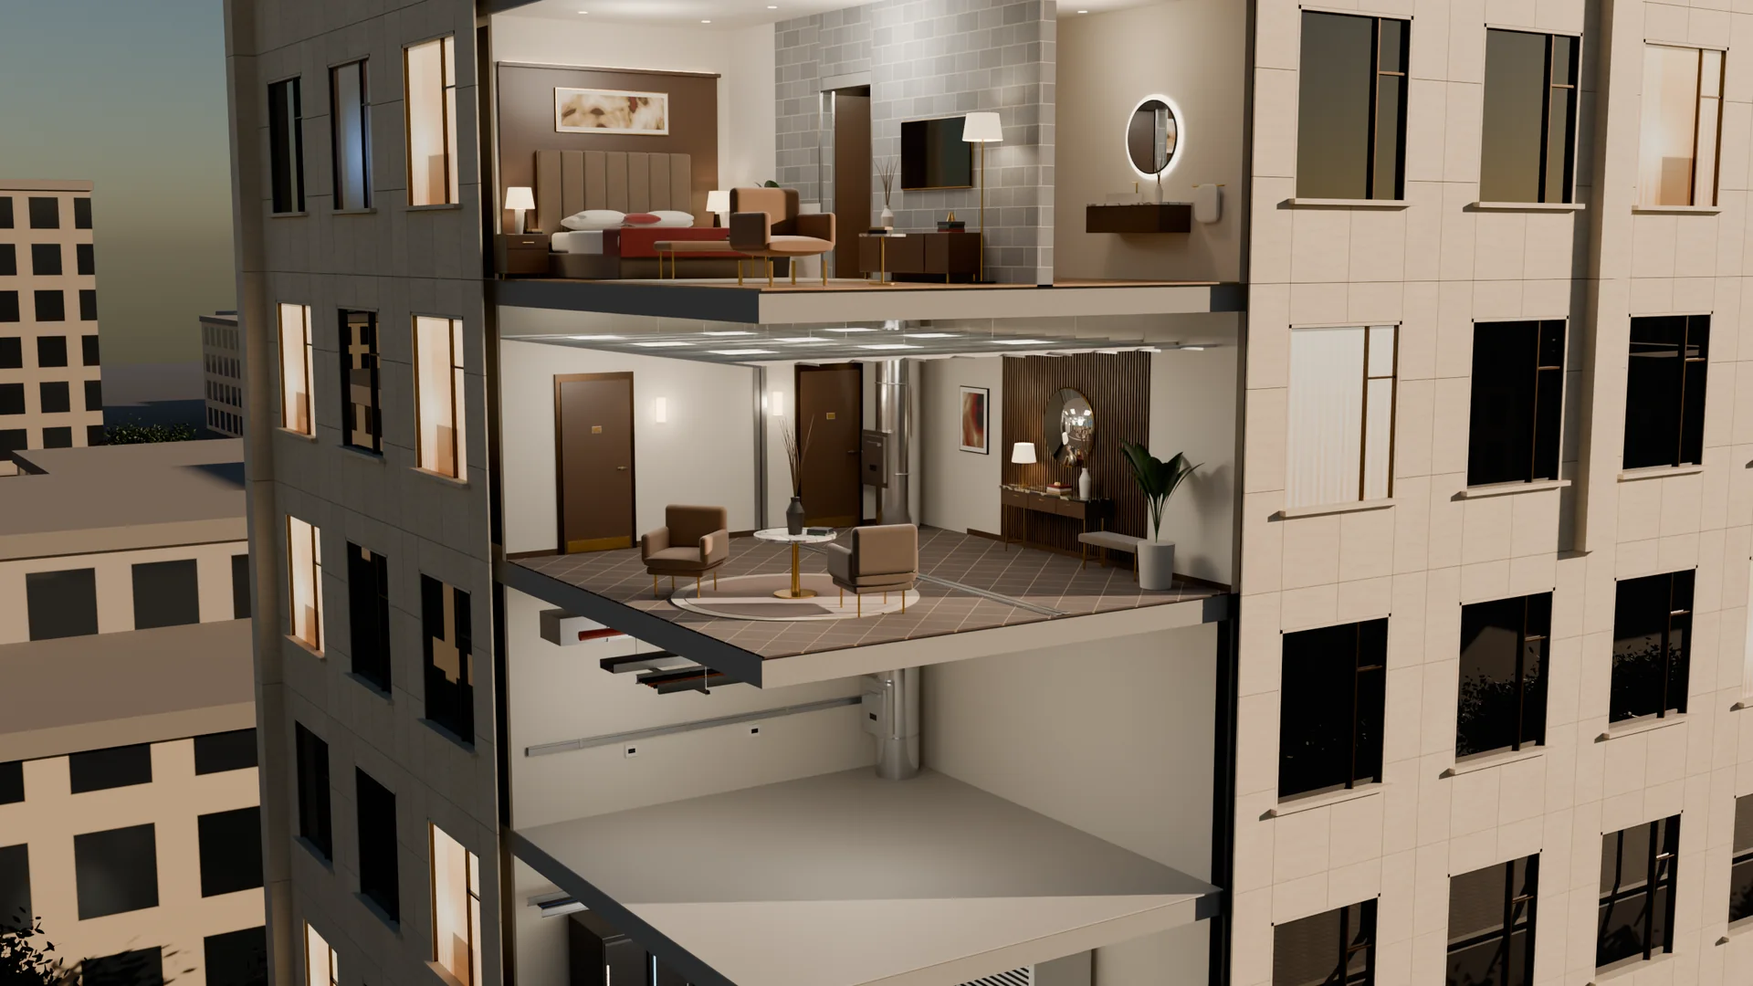
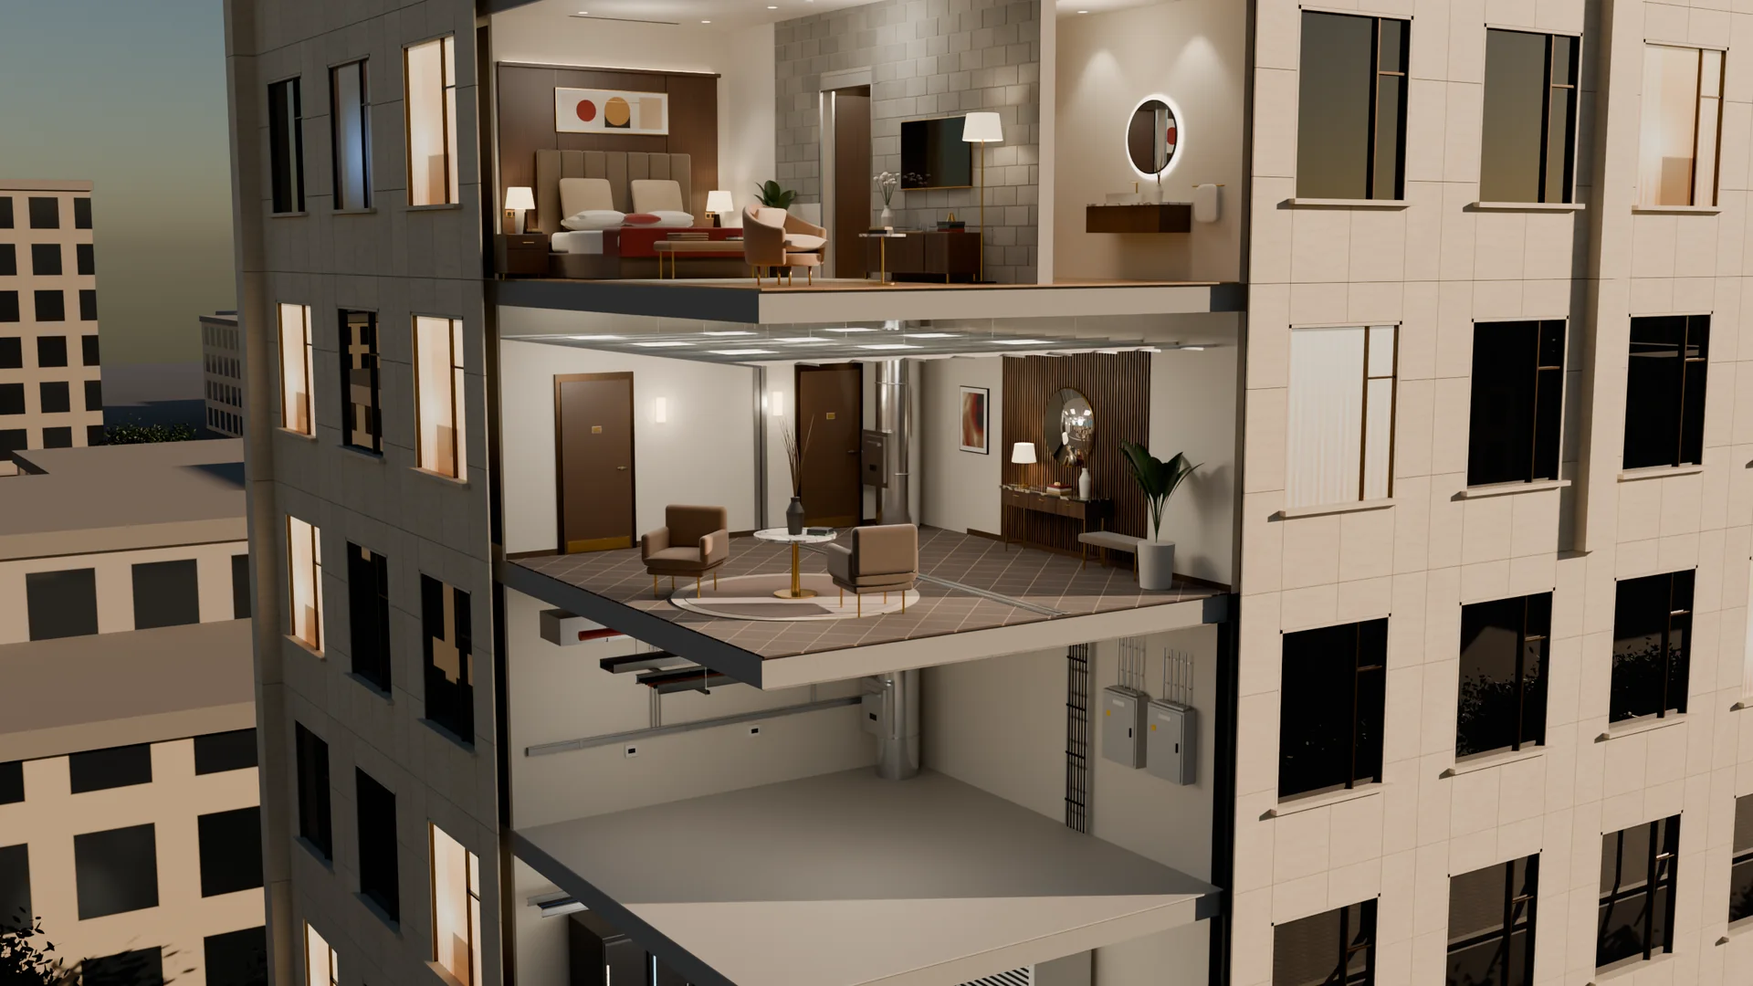
Hero: hotel, corridor and chute chapters re-rendered so the room and services floors match the realism pass
Claude-Session: https://claude.ai/code/session_017Zrk1783M4wwwCaEktgcez

Changed region(s): [[0.2812, 0.5806, 0.6875, 0.9167], [0.25, 0.0, 0.7188, 0.3056], [0.5312, 0.7333, 0.5625, 0.7639]]

diff --git a/assets/kv/herophoto.js b/assets/kv/herophoto.js
@@ -1,1 +1,1 @@
-const N=[{name:"The hotel",ox:.62,hi:1,v:"f3f6e5",tags:[]},{name:"Fa\xE7ade fixation",ox:.5,hi:1,v:"7e573c",tags:[{text:"Natural stone panels",num:null,href:"product/mechanical-cladding-fixation.html",x:.4354,y:-.1514},{text:"Stainless Z-brackets",num:null,href:"s/z-brackets.html",x:.586,y:.3359},{text:"Solid backing wall",num:null,href:"product/mechanical-cladding-fixation.html",x:.6528,y:.5268},{text:"Ventilated cavity",num:null,href:"product/mechanical-cladding-fixation.html",x:.2743,y:1.2563}]},{name:"The Z-bracket kit",ox:.5,hi:1,v:"de075c",tags:[{text:"Z-bracket",num:"1",href:"s/z-brackets.html",x:.4745,y:.6075},{text:"Through anchor",num:"2",href:"s/anchors.html",x:.4345,y:.4955},{text:"Serrated washer",num:"3",href:"s/z-brackets.html",x:.4428,y:.4612},{text:"Hex nuts",num:"4",href:"s/z-brackets.html",x:.4565,y:.6615},{text:"Flat head bolt",num:"5",href:"s/z-brackets.html",x:.4706,y:.6889},{text:"Pin with ring",num:"6",href:"s/z-brackets.html",x:.4888,y:.6482}]},{name:"Cable management",ox:.5,hi:1,v:"f88b6a",tags:[{text:"Perforated cable tray",num:null,href:"product/cable-trays.html",x:.34,y:.2554},{text:"Cable ladder",num:null,href:"product/cable-ladders.html",x:.7321,y:.5475},{text:"Strut channel trapeze",num:null,href:"product/c-channel-strut.html",x:.6573,y:.4215},{text:"Threaded rod & nuts",num:null,href:"s/threaded-accessories.html",x:.7319,y:.4777},{text:"Pipe clamps",num:null,href:"product/pipe-clamps.html",x:.3827,y:.4447},{text:"Cable trunking",num:null,href:"product/cable-trunkings.html",x:-.0406,y:.9286}]},{name:"Raised access floor",ox:.5,hi:1,v:"6b1dca",tags:[{text:"Porcelain slabs 600 \xD7 600",num:null,href:"product/raised-access-flooring.html",x:.6838,y:.4969},{text:"Adjustable pedestals",num:null,href:"s/indoor-access-floor.html",x:.6216,y:.6939},{text:"Self-levelling head",num:null,href:"s/indoor-access-floor.html",x:.8497,y:.5621}]},{name:"Ceilings & movement joints",ox:.5,hi:1,v:"8b99e5",tags:[{text:"Metal ceiling grid",num:null,href:"product/metal-ceiling-grid.html",x:.4944,y:.3199},{text:"Floor expansion joint",num:null,href:"s/floor-joints.html",x:.6808,y:.8966},{text:"Wall joint cover",num:null,href:"s/wall-ceiling-joints.html",x:.398,y:.5393}]},{name:"Blockwork & lintels",ox:.5,hi:1,v:"35f995",tags:[{text:"Blockwork partition",num:null,href:"s/block-accessories.html",x:.4462,y:.3793},{text:"Steel lintel",num:null,href:"s/steel-lintels.html",x:.5078,y:.316},{text:"Angle beads",num:null,href:"s/plaster-beads.html",x:.5452,y:.5425}]},{name:"Garbage & linen chute",ox:.5,hi:1,v:"ae6072",tags:[{text:"Chute through every floor",num:null,href:"product/garbage-linen-chutes.html",x:.5051,y:.1311},{text:"Intake doors",num:null,href:"s/chute-components.html",x:.5025,y:.4667},{text:"Chute sections",num:null,href:"s/chute-components.html",x:.5037,y:.6748}]},{name:"The roof",ox:.5,hi:1,v:"f9c590",tags:[{text:"Porcelain terrace",num:null,href:"s/outdoor-pedestals.html",x:.2902,y:.7295},{text:"Terrace on adjustable pedestals",num:null,href:"s/outdoor-pedestals.html",x:.4508,y:.6766},{text:"FRP grating walkway",num:null,href:"s/frp-grating-handrail.html",x:.6566,y:.5929},{text:"FRP handrail",num:null,href:"s/frp-grating-handrail.html",x:.788,y:.3357},{text:"Cable ladder on strut stands",num:null,href:"product/cable-ladders.html",x:.7073,y:.3621}]}],Tt=[{o:[1.7,.65,.58],i:[1.22,.1,0]},{o:[1.6,.48,.59],i:[1.2,0,.25]},{o:[1.28,.5,.5],i:[1.4,.69,.98]},{o:[1.3,.4,1],i:[1.3,.45,0]},{o:[1.3,.4,0],i:[1.3,.6,1]},{o:[1.3,.5,0],i:[1.3,.5,1]},{o:[1.18,.5,.5],i:[1.35,.46,.07]},{o:[1.5,.19,.82],i:[1.25,.45,1]}],k="img/hotel/",I=620,i=document.querySelector(".hero"),dt=i&&i.querySelector(".hero-media");i&&dt&&Lt();function Lt(){const z=matchMedia("(prefers-reduced-motion: reduce)").matches,w=matchMedia("(min-width: 900px)"),p=N.length;let h=null;z||(h=document.createElement("div"),h.className="kv3d-pin kv3d-pin-long",i.parentNode.insertBefore(h,i),h.appendChild(i));const j=()=>!!h&&w.matches,M=document.createElement("div");M.className="kvh-stack",dt.appendChild(M);const f=N.map((t,n)=>{let e;const a=n===0?"":"?v="+t.v,s=k+"c"+n+"-1280.webp"+a+" 1280w, "+k+"c"+n+"-1920.webp"+a+" 1920w"+(t.hi?", "+k+"c"+n+"-2560.webp"+a+" 2560w":"");return n===0?(e=document.createElement("picture"),e.innerHTML='<source media="(max-width: 899px)" srcset="'+k+"c0p-800.webp 800w, "+k+'c0p-1080.webp 1080w" sizes="100vw"><img src="'+k+"c0-1920.webp"+a+'" srcset="'+s+'" sizes="100vw" alt="" fetchpriority="high" decoding="async">'):(e=document.createElement("img"),e.alt="",e.decoding="async",e.dataset.srcset=s),e.className="kvh-img"+(n===0?" on":""),e.style.setProperty("--ox",t.ox*100+"%"),M.appendChild(e),e}),q=t=>f[t].tagName==="PICTURE"?f[t].querySelector("img"):f[t],ht=t=>{const n=q(t);return n.complete&&n.naturalWidth>0},y=t=>{const n=f[t];n&&n.dataset.srcset&&(n.sizes="100vw",n.srcset=n.dataset.srcset,delete n.dataset.srcset)},mt=(t,n,e)=>{if(y(t),ht(t))return n();const a=q(t);let s=!1;const r=()=>{s||(s=!0,n())};a.addEventListener("load",r,{once:!0}),a.addEventListener("error",r,{once:!0}),e&&setTimeout(r,e)},b=document.createElement("div");b.className="kv3d-labels",b.setAttribute("aria-hidden","true"),i.appendChild(b);const ut=(t,n)=>{const e=document.createElement("div");e.className="kv3d-tag",e.style.setProperty("--d",n*70+"ms");const a=document.createElement("span");a.className="kv3d-dot";const s=document.createElement("span");s.className="kv3d-line";const r=document.createElement(t.href?"a":"span");if(r.className="kv3d-chip",t.href&&(r.href=t.href,r.tabIndex=-1,r.style.textDecoration="none",r.style.pointerEvents="none"),t.num){const m=document.createElement("b");m.textContent=t.num,r.appendChild(m)}const x=document.createElement("span");return x.textContent=t.text,r.appendChild(x),e.append(s,a,r),b.appendChild(e),{el:e,line:s,chip:r,on:!1,href:!!t.href,x:t.x,y:t.y}},ft=N.map(t=>t.tags.map(ut)),H=document.createElement("div");H.className="kv3d-steps kv3d-steps-many";const xt=N.map((t,n)=>{const e=document.createElement("button");e.type="button",e.className="kv3d-step";const a=document.createElement("b");a.textContent=String(n+1).padStart(2,"0");const s=document.createElement("span");return s.textContent=t.name,e.append(a,s),e.setAttribute("aria-label",t.name),e.addEventListener("click",()=>{j()&&(y(n),scrollTo({top:pt(n),behavior:"smooth"}))}),H.appendChild(e),e});i.appendChild(H);const C=document.createElement("div");C.className="kv3d-hint",C.textContent="Scroll to tour the hotel",i.appendChild(C);const V=()=>Math.max(1,h.offsetHeight-i.offsetHeight),pt=t=>h.getBoundingClientRect().top+scrollY-62+V()*(t/(p-1));let F=1,R=1;const Y=1920,Z=1080,yt=(t,n,e)=>{const a=Math.max(F/Y,R/Z),s=Y*a,r=Z*a;return[(F-s)*t.ox+n*s,(R-r)*.5+e*r]};function W(){const t=i.getBoundingClientRect();F=Math.max(1,t.width),R=Math.max(1,t.height),L()}let E=0,A=!1,d=0,T=0,g=0,_=0,gt=2,Q=0,X=0;const vt=()=>d;function L(){const t=j(),n=!A&&d===E;ft.forEach((a,s)=>Mt(a,N[s],t&&n&&s===E));const e=t?vt():0;i.classList.toggle("kv3d-detail",t&&e>0),xt.forEach((a,s)=>a.classList.toggle("on",s===e)),C.classList.toggle("gone",T>.02)}const J=t=>"translate("+((1-t[0])*t[1]*100).toFixed(3)+"%,"+((1-t[0])*t[2]*100).toFixed(3)+"%) scale("+t[0]+")",bt="translate(0,0) scale(1)",Et=t=>{const n=getComputedStyle(t);t.style.transition="none",t.style.transform=n.transform,t.style.opacity=n.opacity},K="cubic-bezier(.33,0,.15,1)";function kt(t){const n=E,e=++X;A=!0,L(),mt(t,()=>{if(e!==X)return;const a=f[n],s=f[t],r=t>n,x=Math.abs(t-n)===1,m=x?Tt[Math.min(n,t)]:null,D=x?r?m.o:m.i:[1.22,.5,.5],O=x?r?m.i:m.o:[1.1,.5,.5];f.forEach(l=>{l.classList.contains("on")&&Et(l)}),s.style.transition="none",s.style.zIndex=++gt,s.style.transformOrigin="0 0",s.classList.contains("on")||(s.style.opacity=0,s.style.transform=J(O),s.classList.add("on")),a.style.transformOrigin="0 0",s.offsetWidth;const o="transform "+I+"ms "+K+", opacity "+Math.round(I*.8)+"ms ease-in-out";s.style.transition=o,s.style.transform=bt,s.style.opacity=1,a!==s&&(a.style.transition="transform "+I+"ms "+K,a.style.transform=J(D)),E=t,clearTimeout(Q),Q=setTimeout(()=>{e===X&&(f.forEach((l,u)=>{u!==t&&(l.classList.remove("on"),l.style.transition="none",l.style.transform="",l.style.opacity="")}),s.style.transition="none",s.style.transform="",s.style.opacity="",A=!1,L(),P())},I+40)},1200)}function P(){if(d===E){A||(y(E),L());return}kt(d)}const $=.2,wt=.05;let v=0;function B(){if(!j()){T=0,d!==0&&(d=0,P()),L();return}const t=h.getBoundingClientRect(),n=Math.max(0,Math.min(1,(62-t.top)/V()));T=n;const e=n*(p-1);g===0?Math.abs(e-v)>.01&&(g=e>v?1:-1,v=e):(e-v)*g>=0?v=e:Math.abs(e-v)>wt&&(g=-g,v=e);let a=d;g>0?a=Math.max(d,Math.floor(e-$)+1):g<0&&(a=Math.min(d,Math.ceil(e+$)-1)),a=Math.max(0,Math.min(p-1,a)),clearTimeout(_),_=setTimeout(()=>{const s=Math.round(T*(p-1));Math.abs(T*(p-1)-d)>=1&&s!==d&&(d=s,P())},250),C.classList.toggle("gone",n>.02),a!==d&&(d=a,y(Math.min(p-1,a+1)),P())}const tt=42,et=60;function Mt(t,n,e){if(!t.length||(t.forEach(o=>{e!==o.on&&(o.on=e,o.el.classList.toggle("on",e),o.href&&(o.chip.style.pointerEvents=e?"auto":"none"))}),!e))return;const a=t.map(o=>{const[l,u]=yt(n,o.x,o.y);return{L:o,ax:l,ay:u}}),s=a.reduce((o,l)=>o+l.ax,0)/a.length,r=Math.min(...a.map(o=>o.ax)),x=Math.max(...a.map(o=>o.ax)),m={l:[],r:[]};a.forEach(o=>m[o.ax<s?"l":"r"].push(o));const D=96,O=R-118;["l","r"].forEach(o=>{const l=m[o].sort((c,Ct)=>c.ay-Ct.ay);if(!l.length)return;const u=o==="l"?r-et*.6:x+et*.6,S=o==="l"?Math.max(240,u):Math.min(F-240,u);let U=-1e9;l.forEach(c=>{c.ty=Math.max(c.ay,U+tt),U=c.ty});const ct=U-O;ct>0&&l.forEach(c=>c.ty-=ct);for(let c=l.length-2;c>=0;c--)l[c].ty=Math.min(l[c].ty,l[c+1].ty-tt);const it=D-l[0].ty;it>0&&l.forEach(c=>c.ty+=it),l.forEach(c=>{c.tx=S,c.left=o==="l"})}),a.forEach(o=>{const l=o.L,u=o.tx-o.ax,S=o.ty-o.ay;l.el.style.transform="translate("+o.ax.toFixed(1)+"px,"+o.ay.toFixed(1)+"px)",l.el.classList.toggle("left",o.left),l.line.style.width=Math.hypot(u,S).toFixed(1)+"px",l.line.style.transform="rotate("+Math.atan2(S,u).toFixed(4)+"rad)",l.chip.style.left=u.toFixed(1)+"px",l.chip.style.top=S.toFixed(1)+"px"})}const nt=["scroll","wheel","touchstart","keydown","pointerdown"];let st=!1;const at=()=>{if(!(st||!w.matches||z)){st=!0;for(let t=1;t<p;t++)setTimeout(()=>y(t),120*t);nt.forEach(t=>removeEventListener(t,at))}},ot=()=>{!w.matches||z||(y(1),y(2))};"requestIdleCallback"in window?requestIdleCallback(ot,{timeout:2500}):setTimeout(ot,1500),nt.forEach(t=>addEventListener(t,at,{passive:!0})),addEventListener("scroll",B,{passive:!0}),!z&&matchMedia("(pointer:fine)").matches&&(i.addEventListener("pointermove",t=>{const n=i.getBoundingClientRect(),e=(t.clientX-n.left)/n.width-.5,a=(t.clientY-n.top)/n.height-.5,s="translate3d("+(-e*14).toFixed(1)+"px,"+(-a*9).toFixed(1)+"px,0) scale(1.025)";M.style.transform=s,b.style.transform=s}),i.addEventListener("pointerleave",()=>{M.style.transform="",b.style.transform=""}));const lt=()=>{i.classList.add("has-3d","kvh-ready"),h&&h.classList.add("on"),W(),B()},G=q(0);G.complete&&G.naturalWidth?lt():G.addEventListener("load",lt,{once:!0});let rt;addEventListener("resize",()=>{clearTimeout(rt),rt=setTimeout(()=>{W(),B()},80)}),w.addEventListener&&w.addEventListener("change",()=>{W(),B()})}
+const N=[{name:"The hotel",ox:.62,hi:1,v:"667077",tags:[]},{name:"Fa\xE7ade fixation",ox:.5,hi:1,v:"7e573c",tags:[{text:"Natural stone panels",num:null,href:"product/mechanical-cladding-fixation.html",x:.4354,y:-.1514},{text:"Stainless Z-brackets",num:null,href:"s/z-brackets.html",x:.586,y:.3359},{text:"Solid backing wall",num:null,href:"product/mechanical-cladding-fixation.html",x:.6528,y:.5268},{text:"Ventilated cavity",num:null,href:"product/mechanical-cladding-fixation.html",x:.2743,y:1.2563}]},{name:"The Z-bracket kit",ox:.5,hi:1,v:"de075c",tags:[{text:"Z-bracket",num:"1",href:"s/z-brackets.html",x:.4745,y:.6075},{text:"Through anchor",num:"2",href:"s/anchors.html",x:.4345,y:.4955},{text:"Serrated washer",num:"3",href:"s/z-brackets.html",x:.4428,y:.4612},{text:"Hex nuts",num:"4",href:"s/z-brackets.html",x:.4565,y:.6615},{text:"Flat head bolt",num:"5",href:"s/z-brackets.html",x:.4706,y:.6889},{text:"Pin with ring",num:"6",href:"s/z-brackets.html",x:.4888,y:.6482}]},{name:"Cable management",ox:.5,hi:1,v:"f88b6a",tags:[{text:"Perforated cable tray",num:null,href:"product/cable-trays.html",x:.34,y:.2554},{text:"Cable ladder",num:null,href:"product/cable-ladders.html",x:.7321,y:.5475},{text:"Strut channel trapeze",num:null,href:"product/c-channel-strut.html",x:.6573,y:.4215},{text:"Threaded rod & nuts",num:null,href:"s/threaded-accessories.html",x:.7319,y:.4777},{text:"Pipe clamps",num:null,href:"product/pipe-clamps.html",x:.3827,y:.4447},{text:"Cable trunking",num:null,href:"product/cable-trunkings.html",x:-.0406,y:.9286}]},{name:"Raised access floor",ox:.5,hi:1,v:"6b1dca",tags:[{text:"Porcelain slabs 600 \xD7 600",num:null,href:"product/raised-access-flooring.html",x:.6838,y:.4969},{text:"Adjustable pedestals",num:null,href:"s/indoor-access-floor.html",x:.6216,y:.6939},{text:"Self-levelling head",num:null,href:"s/indoor-access-floor.html",x:.8497,y:.5621}]},{name:"Ceilings & movement joints",ox:.5,hi:1,v:"c191a5",tags:[{text:"Metal ceiling grid",num:null,href:"product/metal-ceiling-grid.html",x:.4944,y:.3199},{text:"Floor expansion joint",num:null,href:"s/floor-joints.html",x:.6808,y:.8966},{text:"Wall joint cover",num:null,href:"s/wall-ceiling-joints.html",x:.398,y:.5393}]},{name:"Blockwork & lintels",ox:.5,hi:1,v:"35f995",tags:[{text:"Blockwork partition",num:null,href:"s/block-accessories.html",x:.4462,y:.3793},{text:"Steel lintel",num:null,href:"s/steel-lintels.html",x:.5078,y:.316},{text:"Angle beads",num:null,href:"s/plaster-beads.html",x:.5452,y:.5425}]},{name:"Garbage & linen chute",ox:.5,hi:1,v:"1a685a",tags:[{text:"Chute through every floor",num:null,href:"product/garbage-linen-chutes.html",x:.5051,y:.1311},{text:"Intake doors",num:null,href:"s/chute-components.html",x:.5025,y:.4667},{text:"Chute sections",num:null,href:"s/chute-components.html",x:.5037,y:.6748}]},{name:"The roof",ox:.5,hi:1,v:"f9c590",tags:[{text:"Porcelain terrace",num:null,href:"s/outdoor-pedestals.html",x:.2902,y:.7295},{text:"Terrace on adjustable pedestals",num:null,href:"s/outdoor-pedestals.html",x:.4508,y:.6766},{text:"FRP grating walkway",num:null,href:"s/frp-grating-handrail.html",x:.6566,y:.5929},{text:"FRP handrail",num:null,href:"s/frp-grating-handrail.html",x:.788,y:.3357},{text:"Cable ladder on strut stands",num:null,href:"product/cable-ladders.html",x:.7073,y:.3621}]}],Tt=[{o:[1.7,.65,.58],i:[1.22,.1,0]},{o:[1.6,.48,.59],i:[1.2,0,.25]},{o:[1.28,.5,.5],i:[1.4,.69,.98]},{o:[1.3,.4,1],i:[1.3,.45,0]},{o:[1.3,.4,0],i:[1.3,.6,1]},{o:[1.3,.5,0],i:[1.3,.5,1]},{o:[1.18,.5,.5],i:[1.35,.46,.07]},{o:[1.5,.19,.82],i:[1.25,.45,1]}],k="img/hotel/",I=620,i=document.querySelector(".hero"),dt=i&&i.querySelector(".hero-media");i&&dt&&Lt();function Lt(){const z=matchMedia("(prefers-reduced-motion: reduce)").matches,w=matchMedia("(min-width: 900px)"),p=N.length;let h=null;z||(h=document.createElement("div"),h.className="kv3d-pin kv3d-pin-long",i.parentNode.insertBefore(h,i),h.appendChild(i));const j=()=>!!h&&w.matches,M=document.createElement("div");M.className="kvh-stack",dt.appendChild(M);const f=N.map((t,n)=>{let e;const a=n===0?"":"?v="+t.v,s=k+"c"+n+"-1280.webp"+a+" 1280w, "+k+"c"+n+"-1920.webp"+a+" 1920w"+(t.hi?", "+k+"c"+n+"-2560.webp"+a+" 2560w":"");return n===0?(e=document.createElement("picture"),e.innerHTML='<source media="(max-width: 899px)" srcset="'+k+"c0p-800.webp 800w, "+k+'c0p-1080.webp 1080w" sizes="100vw"><img src="'+k+"c0-1920.webp"+a+'" srcset="'+s+'" sizes="100vw" alt="" fetchpriority="high" decoding="async">'):(e=document.createElement("img"),e.alt="",e.decoding="async",e.dataset.srcset=s),e.className="kvh-img"+(n===0?" on":""),e.style.setProperty("--ox",t.ox*100+"%"),M.appendChild(e),e}),q=t=>f[t].tagName==="PICTURE"?f[t].querySelector("img"):f[t],ht=t=>{const n=q(t);return n.complete&&n.naturalWidth>0},y=t=>{const n=f[t];n&&n.dataset.srcset&&(n.sizes="100vw",n.srcset=n.dataset.srcset,delete n.dataset.srcset)},mt=(t,n,e)=>{if(y(t),ht(t))return n();const a=q(t);let s=!1;const r=()=>{s||(s=!0,n())};a.addEventListener("load",r,{once:!0}),a.addEventListener("error",r,{once:!0}),e&&setTimeout(r,e)},b=document.createElement("div");b.className="kv3d-labels",b.setAttribute("aria-hidden","true"),i.appendChild(b);const ut=(t,n)=>{const e=document.createElement("div");e.className="kv3d-tag",e.style.setProperty("--d",n*70+"ms");const a=document.createElement("span");a.className="kv3d-dot";const s=document.createElement("span");s.className="kv3d-line";const r=document.createElement(t.href?"a":"span");if(r.className="kv3d-chip",t.href&&(r.href=t.href,r.tabIndex=-1,r.style.textDecoration="none",r.style.pointerEvents="none"),t.num){const m=document.createElement("b");m.textContent=t.num,r.appendChild(m)}const x=document.createElement("span");return x.textContent=t.text,r.appendChild(x),e.append(s,a,r),b.appendChild(e),{el:e,line:s,chip:r,on:!1,href:!!t.href,x:t.x,y:t.y}},ft=N.map(t=>t.tags.map(ut)),H=document.createElement("div");H.className="kv3d-steps kv3d-steps-many";const xt=N.map((t,n)=>{const e=document.createElement("button");e.type="button",e.className="kv3d-step";const a=document.createElement("b");a.textContent=String(n+1).padStart(2,"0");const s=document.createElement("span");return s.textContent=t.name,e.append(a,s),e.setAttribute("aria-label",t.name),e.addEventListener("click",()=>{j()&&(y(n),scrollTo({top:pt(n),behavior:"smooth"}))}),H.appendChild(e),e});i.appendChild(H);const C=document.createElement("div");C.className="kv3d-hint",C.textContent="Scroll to tour the hotel",i.appendChild(C);const V=()=>Math.max(1,h.offsetHeight-i.offsetHeight),pt=t=>h.getBoundingClientRect().top+scrollY-62+V()*(t/(p-1));let F=1,R=1;const Y=1920,Z=1080,yt=(t,n,e)=>{const a=Math.max(F/Y,R/Z),s=Y*a,r=Z*a;return[(F-s)*t.ox+n*s,(R-r)*.5+e*r]};function W(){const t=i.getBoundingClientRect();F=Math.max(1,t.width),R=Math.max(1,t.height),L()}let E=0,A=!1,d=0,T=0,g=0,_=0,gt=2,Q=0,X=0;const vt=()=>d;function L(){const t=j(),n=!A&&d===E;ft.forEach((a,s)=>Mt(a,N[s],t&&n&&s===E));const e=t?vt():0;i.classList.toggle("kv3d-detail",t&&e>0),xt.forEach((a,s)=>a.classList.toggle("on",s===e)),C.classList.toggle("gone",T>.02)}const J=t=>"translate("+((1-t[0])*t[1]*100).toFixed(3)+"%,"+((1-t[0])*t[2]*100).toFixed(3)+"%) scale("+t[0]+")",bt="translate(0,0) scale(1)",Et=t=>{const n=getComputedStyle(t);t.style.transition="none",t.style.transform=n.transform,t.style.opacity=n.opacity},K="cubic-bezier(.33,0,.15,1)";function kt(t){const n=E,e=++X;A=!0,L(),mt(t,()=>{if(e!==X)return;const a=f[n],s=f[t],r=t>n,x=Math.abs(t-n)===1,m=x?Tt[Math.min(n,t)]:null,D=x?r?m.o:m.i:[1.22,.5,.5],O=x?r?m.i:m.o:[1.1,.5,.5];f.forEach(l=>{l.classList.contains("on")&&Et(l)}),s.style.transition="none",s.style.zIndex=++gt,s.style.transformOrigin="0 0",s.classList.contains("on")||(s.style.opacity=0,s.style.transform=J(O),s.classList.add("on")),a.style.transformOrigin="0 0",s.offsetWidth;const o="transform "+I+"ms "+K+", opacity "+Math.round(I*.8)+"ms ease-in-out";s.style.transition=o,s.style.transform=bt,s.style.opacity=1,a!==s&&(a.style.transition="transform "+I+"ms "+K,a.style.transform=J(D)),E=t,clearTimeout(Q),Q=setTimeout(()=>{e===X&&(f.forEach((l,u)=>{u!==t&&(l.classList.remove("on"),l.style.transition="none",l.style.transform="",l.style.opacity="")}),s.style.transition="none",s.style.transform="",s.style.opacity="",A=!1,L(),P())},I+40)},1200)}function P(){if(d===E){A||(y(E),L());return}kt(d)}const $=.2,wt=.05;let v=0;function B(){if(!j()){T=0,d!==0&&(d=0,P()),L();return}const t=h.getBoundingClientRect(),n=Math.max(0,Math.min(1,(62-t.top)/V()));T=n;const e=n*(p-1);g===0?Math.abs(e-v)>.01&&(g=e>v?1:-1,v=e):(e-v)*g>=0?v=e:Math.abs(e-v)>wt&&(g=-g,v=e);let a=d;g>0?a=Math.max(d,Math.floor(e-$)+1):g<0&&(a=Math.min(d,Math.ceil(e+$)-1)),a=Math.max(0,Math.min(p-1,a)),clearTimeout(_),_=setTimeout(()=>{const s=Math.round(T*(p-1));Math.abs(T*(p-1)-d)>=1&&s!==d&&(d=s,P())},250),C.classList.toggle("gone",n>.02),a!==d&&(d=a,y(Math.min(p-1,a+1)),P())}const tt=42,et=60;function Mt(t,n,e){if(!t.length||(t.forEach(o=>{e!==o.on&&(o.on=e,o.el.classList.toggle("on",e),o.href&&(o.chip.style.pointerEvents=e?"auto":"none"))}),!e))return;const a=t.map(o=>{const[l,u]=yt(n,o.x,o.y);return{L:o,ax:l,ay:u}}),s=a.reduce((o,l)=>o+l.ax,0)/a.length,r=Math.min(...a.map(o=>o.ax)),x=Math.max(...a.map(o=>o.ax)),m={l:[],r:[]};a.forEach(o=>m[o.ax<s?"l":"r"].push(o));const D=96,O=R-118;["l","r"].forEach(o=>{const l=m[o].sort((c,Ct)=>c.ay-Ct.ay);if(!l.length)return;const u=o==="l"?r-et*.6:x+et*.6,S=o==="l"?Math.max(240,u):Math.min(F-240,u);let U=-1e9;l.forEach(c=>{c.ty=Math.max(c.ay,U+tt),U=c.ty});const ct=U-O;ct>0&&l.forEach(c=>c.ty-=ct);for(let c=l.length-2;c>=0;c--)l[c].ty=Math.min(l[c].ty,l[c+1].ty-tt);const it=D-l[0].ty;it>0&&l.forEach(c=>c.ty+=it),l.forEach(c=>{c.tx=S,c.left=o==="l"})}),a.forEach(o=>{const l=o.L,u=o.tx-o.ax,S=o.ty-o.ay;l.el.style.transform="translate("+o.ax.toFixed(1)+"px,"+o.ay.toFixed(1)+"px)",l.el.classList.toggle("left",o.left),l.line.style.width=Math.hypot(u,S).toFixed(1)+"px",l.line.style.transform="rotate("+Math.atan2(S,u).toFixed(4)+"rad)",l.chip.style.left=u.toFixed(1)+"px",l.chip.style.top=S.toFixed(1)+"px"})}const nt=["scroll","wheel","touchstart","keydown","pointerdown"];let st=!1;const at=()=>{if(!(st||!w.matches||z)){st=!0;for(let t=1;t<p;t++)setTimeout(()=>y(t),120*t);nt.forEach(t=>removeEventListener(t,at))}},ot=()=>{!w.matches||z||(y(1),y(2))};"requestIdleCallback"in window?requestIdleCallback(ot,{timeout:2500}):setTimeout(ot,1500),nt.forEach(t=>addEventListener(t,at,{passive:!0})),addEventListener("scroll",B,{passive:!0}),!z&&matchMedia("(pointer:fine)").matches&&(i.addEventListener("pointermove",t=>{const n=i.getBoundingClientRect(),e=(t.clientX-n.left)/n.width-.5,a=(t.clientY-n.top)/n.height-.5,s="translate3d("+(-e*14).toFixed(1)+"px,"+(-a*9).toFixed(1)+"px,0) scale(1.025)";M.style.transform=s,b.style.transform=s}),i.addEventListener("pointerleave",()=>{M.style.transform="",b.style.transform=""}));const lt=()=>{i.classList.add("has-3d","kvh-ready"),h&&h.classList.add("on"),W(),B()},G=q(0);G.complete&&G.naturalWidth?lt():G.addEventListener("load",lt,{once:!0});let rt;addEventListener("resize",()=>{clearTimeout(rt),rt=setTimeout(()=>{W(),B()},80)}),w.addEventListener&&w.addEventListener("change",()=>{W(),B()})}

diff --git a/index.html b/index.html
@@ -1011,7 +1011,7 @@ html[dir="rtl"] .banner::after{
 </style>
 <script id="kv-theme-pre">try{if(localStorage.getItem('kavity-theme')==='dark'){document.documentElement.setAttribute('data-theme','dark');var m=document.querySelector('meta[name=theme-color]');if(m)m.content='#0B0C0E'}}catch(e){}</script>
 <link rel="stylesheet" href="assets/kv/ui.css" id="kv-ui-css">
-<link rel="stylesheet" href="assets/kv/hero3d.css?v=32" id="kv-3d-css">
+<link rel="stylesheet" href="assets/kv/hero3d.css?v=33" id="kv-3d-css">
 </head>
 <body>
 <a class="kv-skip" href="#main">Skip to content</a>
@@ -1593,6 +1593,6 @@ document.querySelectorAll('.filters button').forEach(function(b){
 })();
 </script>
 <script src="assets/kv/ui.js" defer id="kv-ui-js"></script>
-<script type="module" src="assets/kv/herophoto.js?v=32" id="kv-3d-js"></script>
+<script type="module" src="assets/kv/herophoto.js?v=33" id="kv-3d-js"></script>
 </body>
 </html>
